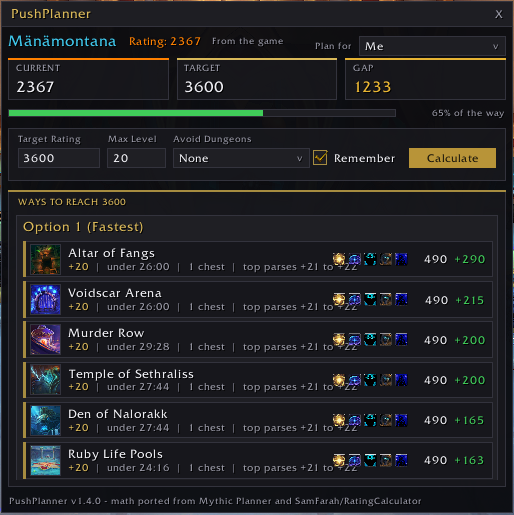
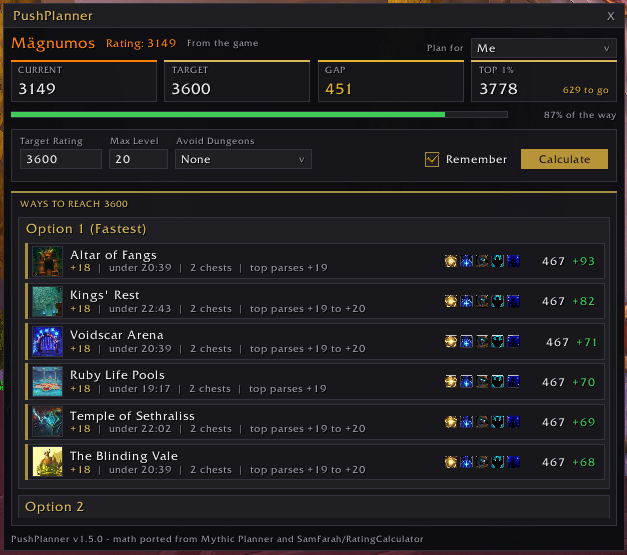
feat: group keys strip, top 1% box with raider.io cutoffs, wider window with no overlapping text, new screenshot and description (1.5.0)

Changed region(s): [[0.0, 0.0, 1.0, 1.0]]

diff --git a/curseforge-description.html b/curseforge-description.html
@@ -7,9 +7,13 @@
 
 <p><span style="color: #ffd100;"><strong>How It Works</strong></span><br>Because it runs inside the game as your character, Push Planner already knows your current rating, your best score and time in every dungeon, the par timers, the season's dungeons and the current affixes. Enter the rating you want and press Calculate. It works out the smallest sets of runs that get you there and shows each one as an option card, from Option 1 (Fastest) to the Easiest.</p>
 
-<p><span style="color: #ffd100;"><strong>New: Plan for Someone Else</strong></span><br>Helping a friend push? Pick who to plan for at the top of the window: your target or anyone in your party (straight from the game), anyone by name and realm when you have the Raider.IO addon installed, or type their best key per dungeon in by hand. You can also right-click a player and choose <em>Plan their Mythic+ push</em>.</p>
+<p><span style="color: #ffd100;"><strong>New: Your Group's Keys</strong></span><br>In a group, a Group keys strip shows the keystone each member holds, and hovering one tells you how much rating timing it would add for whoever you're planning for. Pick the key that moves you furthest before anyone opens their bags. Group members running Push Planner share their keys automatically, and so do players running an addon that includes LibKeystone, such as BigWigs, when you have one too. Neither is required.</p>
 
-<p><span style="color: #ffd100;"><strong>New: Where Top Parses Come From</strong></span><br>Want better parses, not just rating? Each planned run shows the key levels the top Warcraft Logs parses of your spec come from in that dungeon, like <em>top parses +14 to +18</em>. Hover it for the median key and DPS.</p>
+<p><span style="color: #ffd100;"><strong>New: How Close to the Top 1%</strong></span><br>A Top 1% box shows this season's top 1% rating for your region, from Raider.IO, and how many points you still need. Hover it for the top 0.1%, 10% and 25% cutoffs as well.</p>
+
+<p><span style="color: #ffd100;"><strong>Plan for Someone Else</strong></span><br>Helping a friend push? Pick who to plan for at the top of the window: your target or anyone in your party (straight from the game), anyone by name and realm when you have the Raider.IO addon installed, or type their best key per dungeon in by hand. You can also right-click a player and choose <em>Plan their Mythic+ push</em>.</p>
+
+<p><span style="color: #ffd100;"><strong>Where Top Parses Come From</strong></span><br>Want better parses, not just rating? Each planned run shows the key levels the top Warcraft Logs parses of your spec come from in that dungeon, like <em>top parses +14 to +18</em>. Hover it for the median key and DPS.</p>
 
 <p><span style="color: #ffd100;"><strong>Every Run in Detail</strong></span><br>Each suggested run shows the dungeon, the key level, the affixes, the time limit and the time you need to beat, plus how much rating it adds.</p>
 
@@ -29,7 +33,7 @@
 <li><code>/pp reset</code>: clear your target rating, max level and avoided dungeons</li>
 </ul>
 
-<p><span style="color: #ffd100;"><strong>Requirements</strong></span><br>World of Warcraft: Midnight, patch 12.1 (Season 2). No other addons needed. Looking players up by name uses the Raider.IO addon if you have it.</p>
+<p><span style="color: #ffd100;"><strong>Requirements</strong></span><br>World of Warcraft: Midnight, patch 12.1.5 (Season 2). No other addons needed. Looking players up by name uses the Raider.IO addon if you have it.</p>
 
 <p><span style="color: #ffd100;"><strong>Credits</strong></span><br>The rating calculation and the original idea come from Mythic Planner (mythicplanner.com) and <a href="https://github.com/SamFarah/RatingCalculator" target="_blank" rel="nofollow noopener">SamFarah/RatingCalculator</a>, both MIT licensed. Push Planner is an independent in-game reimplementation and isn't affiliated with either. Thank you to both for the groundwork.</p>
 
@@ -40,6 +44,7 @@
 <li><a href="https://www.curseforge.com/wow/addons/auction-coach">Auction Coach</a>: plain-English Auction House advice, a simpler alternative to TSM.</li>
 <li><a href="https://www.curseforge.com/wow/addons/alt-inventory-tracker">Alt Inventory</a>: how many of an item each of your characters has, right in the tooltip.</li>
 <li><a href="https://www.curseforge.com/wow/addons/trust-crafter">Trust Crafter</a>: remembers who crafted your orders and how well.</li>
+<li><a href="https://www.curseforge.com/wow/addons/patron-planner">Patron Planner</a>: which patron crafting orders are worth doing, with a queue to claim, craft and hand them in.</li>
 </ul>
 
 <p>Feedback and bug reports are welcome in the comments.</p>
